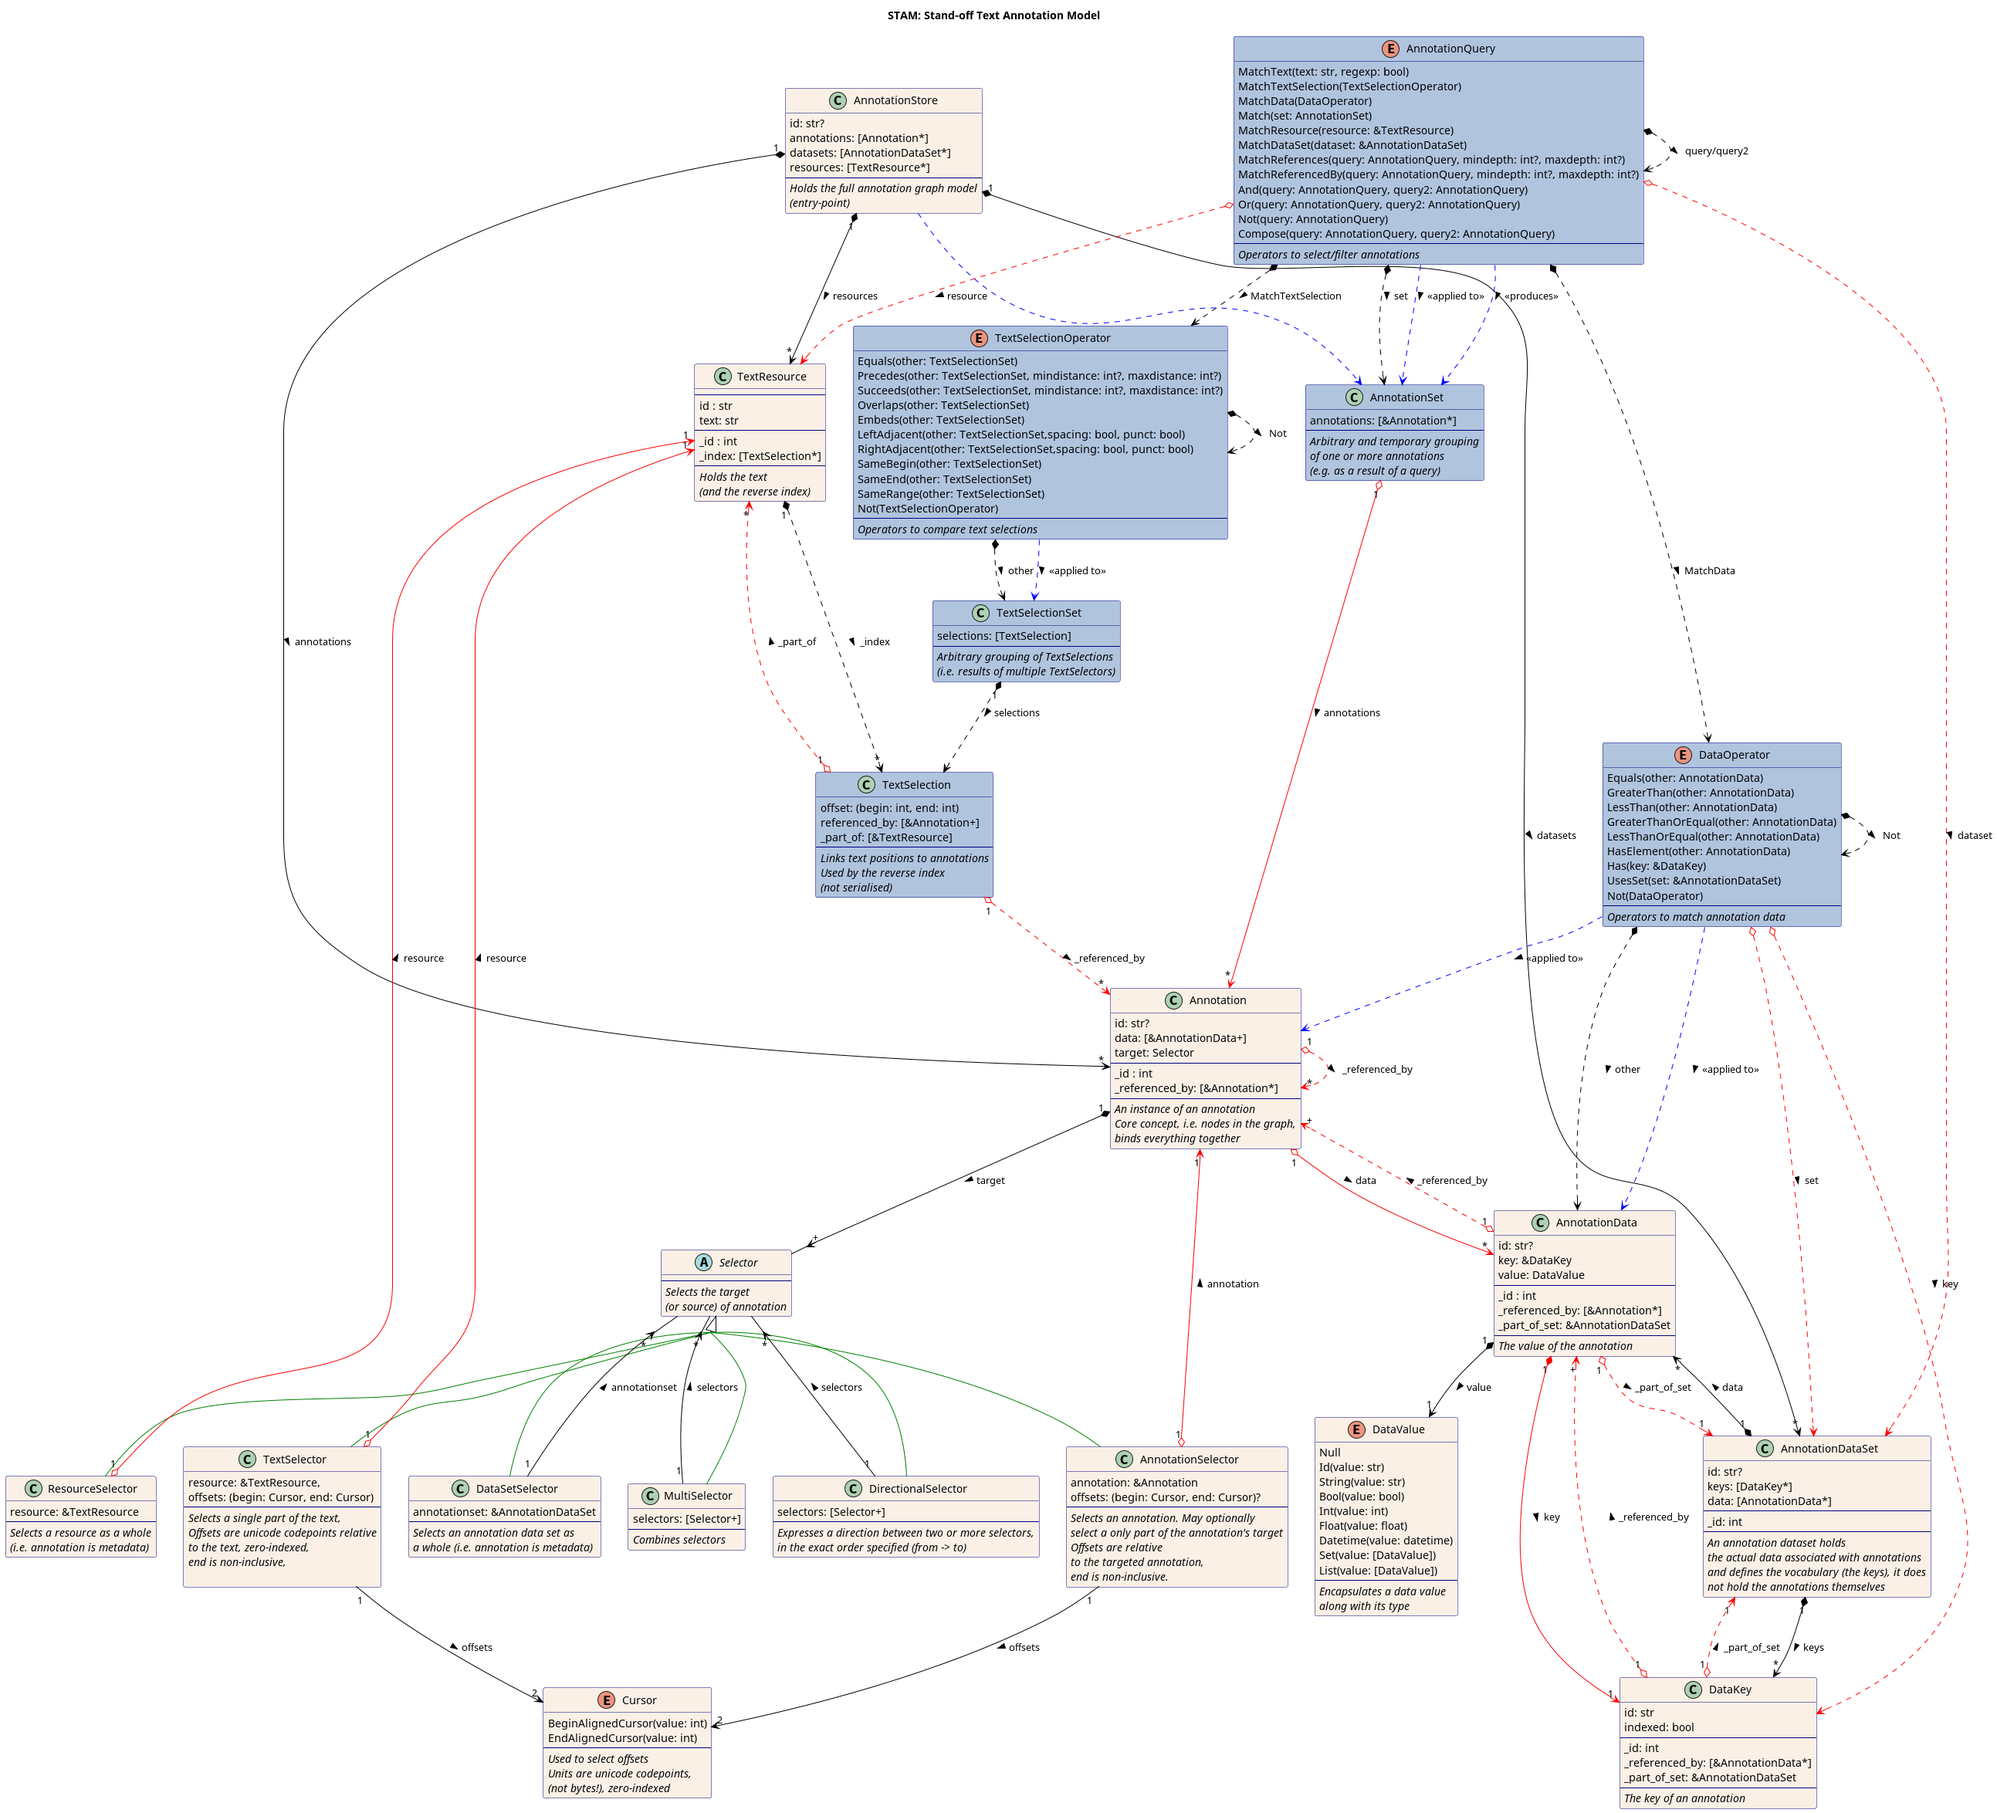
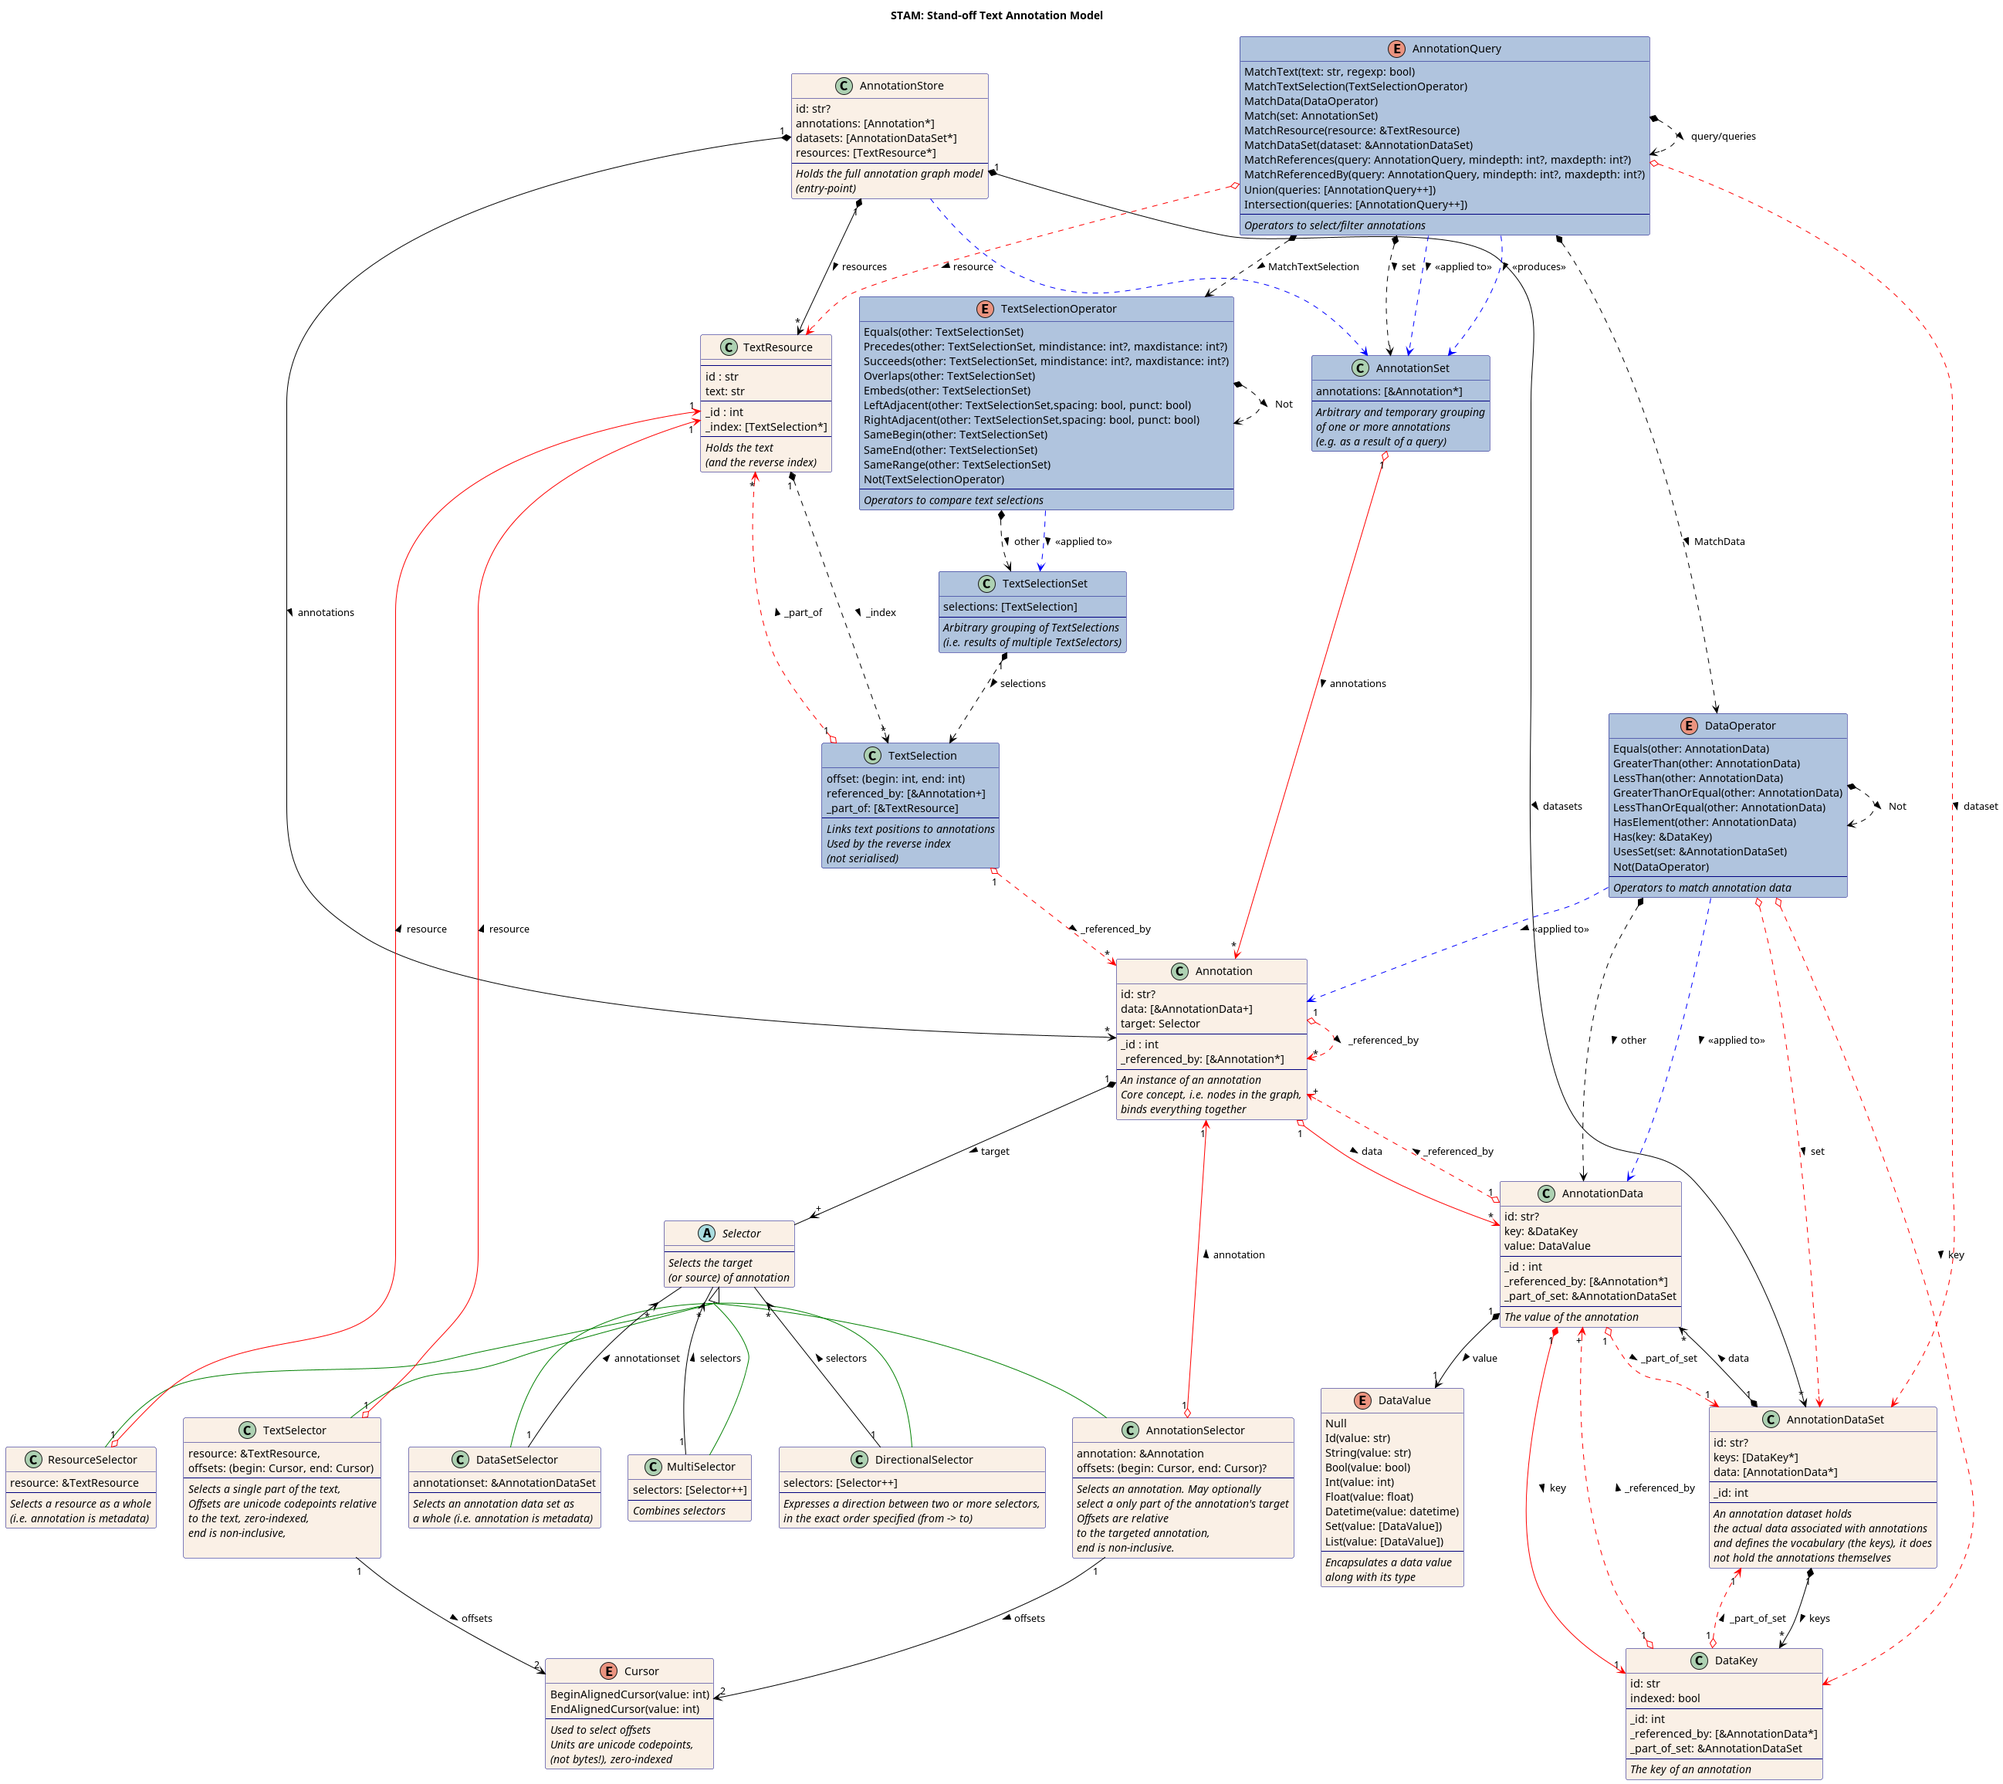
UML schema: further progress on AnnotationQuery

diff --git a/README.md b/README.md
@@ -130,6 +130,7 @@ Some notes to interpret the diagram, as it may quickly become overwhelming:
 *  ``[]`` represents a collection (a list/vector/array/set, specifics are left to the implementation)
     *  The ``*`` suffix inside a list represents zero or more items of the preceding type
     *  The ``+`` suffix inside a list represents one or more items of the preceding type
+    *  The ``++`` suffix inside a list represents two or more items of the preceding type
 * Properties starting with an underscore are *NOT REQUIRED* but *RECOMMENDED* for implementation to facilitate quick lookups, they suggest a memory model. Implementations could implement them as private properties.
 
 ### Identifiers
